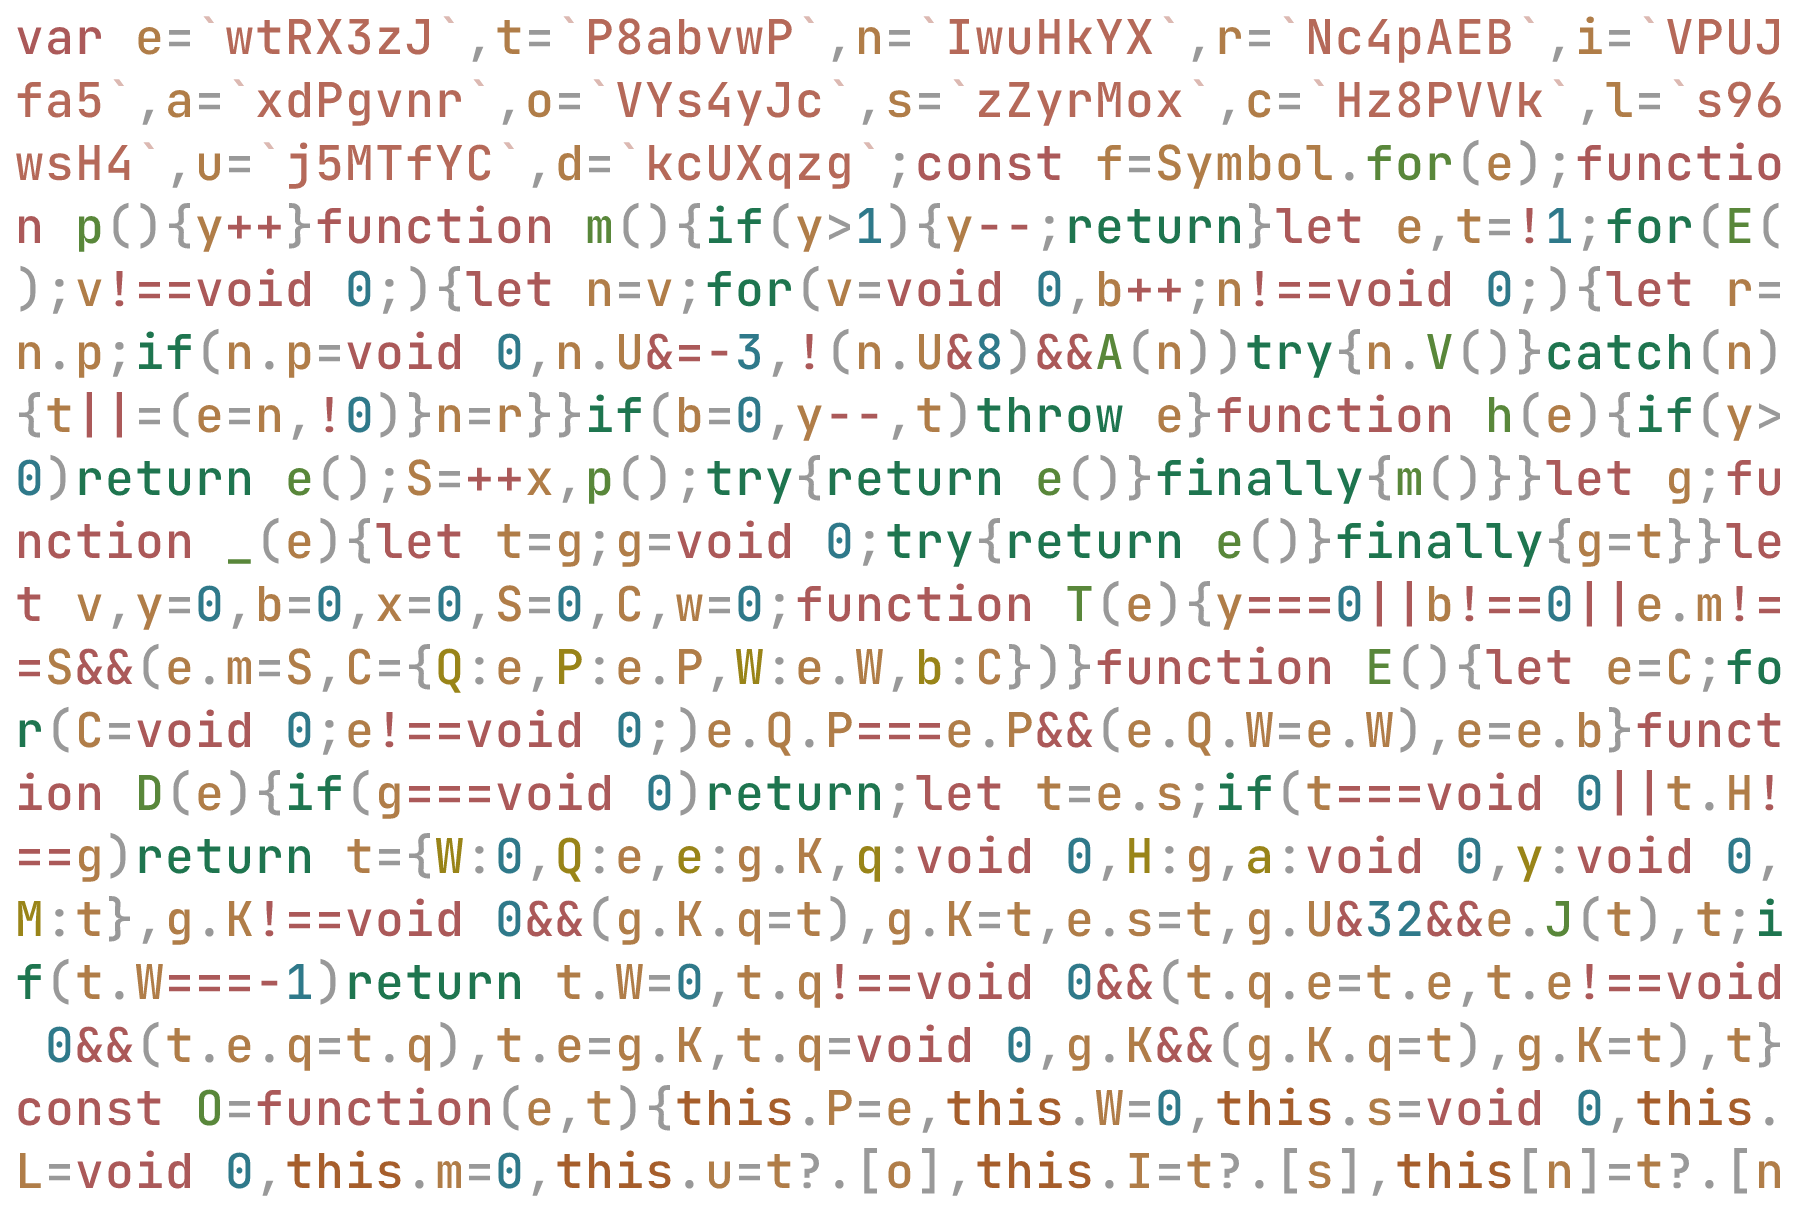
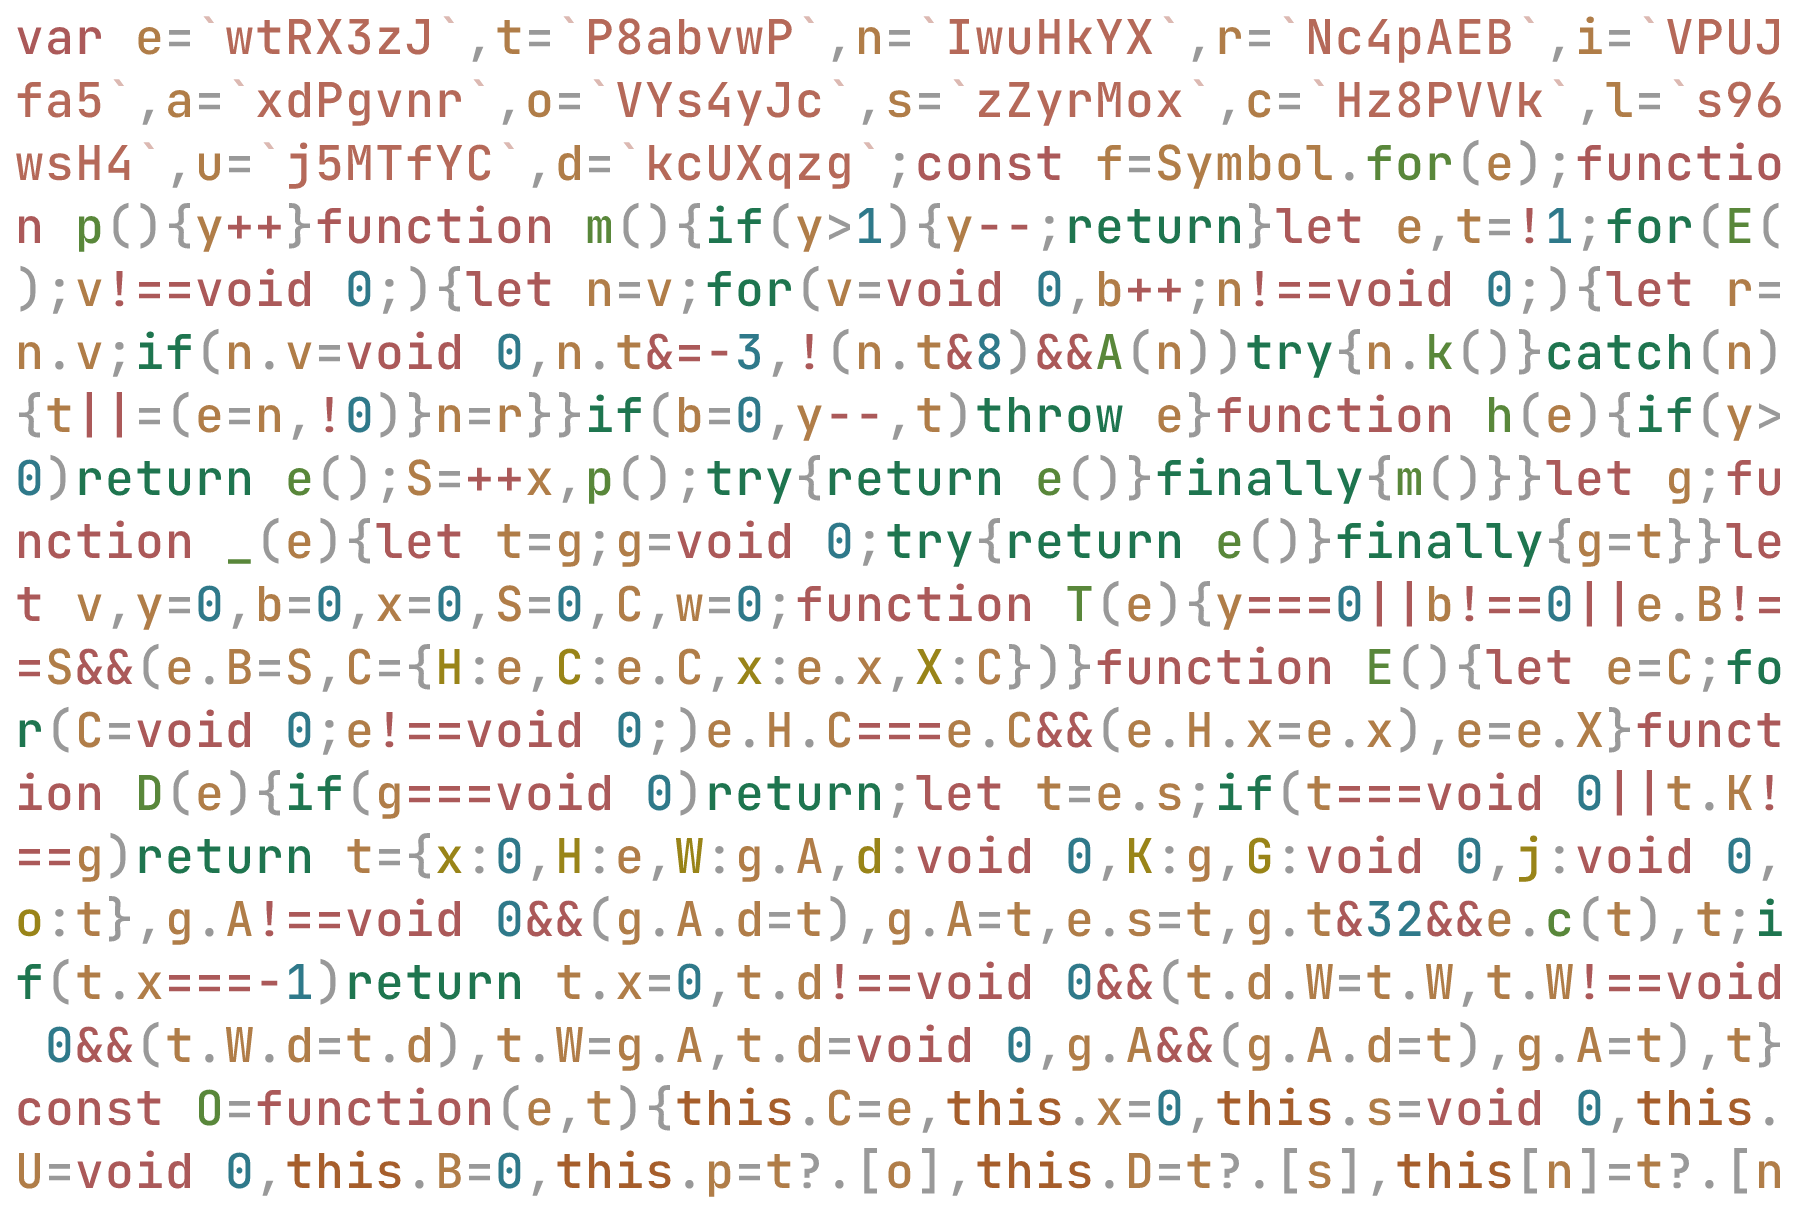
feat: allow non null assertion and shuffle counter by position

diff --git a/demo/signals/dist_sample/keywordified.min.js b/demo/signals/dist_sample/keywordified.min.js
@@ -1,1 +1,1 @@
-var e=`wtRX3zJ`,t=`P8abvwP`,n=`IwuHkYX`,r=`Nc4pAEB`,i=`VPUJfa5`,a=`xdPgvnr`,o=`VYs4yJc`,s=`zZyrMox`,c=`Hz8PVVk`,l=`s96wsH4`,u=`j5MTfYC`,d=`kcUXqzg`;const f=Symbol.for(e);function p(){y++}function m(){if(y>1){y--;return}let e,t=!1;for(E();v!==void 0;){let n=v;for(v=void 0,b++;n!==void 0;){let r=n.p;if(n.p=void 0,n.U&=-3,!(n.U&8)&&A(n))try{n.V()}catch(n){t||=(e=n,!0)}n=r}}if(b=0,y--,t)throw e}function h(e){if(y>0)return e();S=++x,p();try{return e()}finally{m()}}let g;function _(e){let t=g;g=void 0;try{return e()}finally{g=t}}let v,y=0,b=0,x=0,S=0,C,w=0;function T(e){y===0||b!==0||e.m!==S&&(e.m=S,C={Q:e,P:e.P,W:e.W,b:C})}function E(){let e=C;for(C=void 0;e!==void 0;)e.Q.P===e.P&&(e.Q.W=e.W),e=e.b}function D(e){if(g===void 0)return;let t=e.s;if(t===void 0||t.H!==g)return t={W:0,Q:e,e:g.K,q:void 0,H:g,a:void 0,y:void 0,M:t},g.K!==void 0&&(g.K.q=t),g.K=t,e.s=t,g.U&32&&e.J(t),t;if(t.W===-1)return t.W=0,t.q!==void 0&&(t.q.e=t.e,t.e!==void 0&&(t.e.q=t.q),t.e=g.K,t.q=void 0,g.K&&(g.K.q=t),g.K=t),t}const O=function(e,t){this.P=e,this.W=0,this.s=void 0,this.L=void 0,this.m=0,this.u=t?.[o],this.I=t?.[s],this[n]=t?.[n]};O.prototype[i]=f,O.prototype.N=()=>!0,O.prototype.J=function(e){let t=this.L;t!==e&&e.a===void 0&&(e.y=t,this.L=e,t===void 0?_(()=>{this.u?.call(this)}):t.a=e)},O.prototype.R=function(e){if(this.L!==void 0){let t=e.a,n=e.y;t!==void 0&&(t.y=n,e.a=void 0),n!==void 0&&(n.a=t,e.y=void 0),e===this.L&&(this.L=n,n===void 0&&_(()=>{this.I?.call(this)}))}},O.prototype[t]=function(e){return B(()=>{let t=this[a],n=g;g=void 0;try{e(t)}finally{g=n}},{[n]:c})},O.prototype[r]=function(){return _(()=>this[a])},O.prototype.valueOf=function(){return this[a]},O.prototype.toString=function(){return this[a]+``},O.prototype.toJSON=function(){return this[a]},Object.defineProperty(O.prototype,a,{get(){let e=D(this);return e!==void 0&&(e.W=this.W),this.P},set(e){if(e!==this.P){if(b>100)throw Error(l);T(this),this.P=e,this.W++,w++,p();try{for(let e=this.L;e!==void 0;e=e.y)e.H.t()}finally{m()}}}});function k(e,t){return new O(e,t)}function A(e){for(let t=e.K;t!==void 0;t=t.q)if(t.Q.W!==t.W||!t.Q.N()||t.Q.W!==t.W)return!0;return!1}function j(e){for(let t=e.K;t!==void 0;t=t.q){let n=t.Q.s;if(n!==void 0&&(t.M=n),t.Q.s=t,t.W=-1,t.q===void 0){e.K=t;break}}}function M(e){let t=e.K,n;for(;t!==void 0;){let e=t.e;t.W===-1?(t.Q.R(t),e!==void 0&&(e.q=t.q),t.q!==void 0&&(t.q.e=e)):n=t,t.Q.s=t.M,t.M!==void 0&&(t.M=void 0),t=e}e.K=n}const N=function(e,t){O.call(this,void 0),this.B=e,this.K=void 0,this.v=w-1,this.U=4,this.u=t?.[o],this.I=t?.[s],this[n]=t?.[n]};N.prototype=new O,N.prototype.N=function(){if(this.U&=-3,this.U&1)return!1;if((this.U&36)==32||(this.U&=-5,this.v===w))return!0;if(this.v=w,this.U|=1,this.W>0&&!A(this))return this.U&=-2,!0;let e=g;try{j(this),g=this;let e=this.B();(this.U&16||this.P!==e||this.W===0)&&(this.P=e,this.U&=-17,this.W++)}catch(e){this.P=e,this.U|=16,this.W++}return g=e,M(this),this.U&=-2,!0},N.prototype.J=function(e){if(this.L===void 0){this.U|=36;for(let e=this.K;e!==void 0;e=e.q)e.Q.J(e)}O.prototype.J.call(this,e)},N.prototype.R=function(e){if(this.L!==void 0&&(O.prototype.R.call(this,e),this.L===void 0)){this.U&=-33;for(let e=this.K;e!==void 0;e=e.q)e.Q.R(e)}},N.prototype.t=function(){if(!(this.U&2)){this.U|=6;for(let e=this.L;e!==void 0;e=e.y)e.H.t()}},Object.defineProperty(N.prototype,a,{get(){if(this.U&1)throw Error(l);let e=D(this);if(this.N(),e!==void 0&&(e.W=this.W),this.U&16)throw this.P;return this.P}});function P(e,t){return new N(e,t)}function F(e){let t=e.z;if(e.z=void 0,typeof t==`function`){p();let n=g;g=void 0;try{t()}catch(t){throw e.U&=-2,e.U|=8,I(e),t}finally{g=n,m()}}}function I(e){for(let t=e.K;t!==void 0;t=t.q)t.Q.R(t);e.B=void 0,e.K=void 0,F(e)}function L(e){if(g!==this)throw Error(u);M(this),g=e,this.U&=-2,this.U&8&&I(this),m()}let R;const z=function(e,t){this.B=e,this.z=void 0,this.K=void 0,this.p=void 0,this.U=32,this[n]=t?.[n],R&&R.push(this)};z.prototype.V=function(){let e=this.G();try{if(this.U&8||this.B===void 0)return;let e=this.B();typeof e==`function`&&(this.z=e)}finally{e()}},z.prototype.G=function(){if(this.U&1)throw Error(l);this.U|=1,this.U&=-9,F(this),j(this),p();let e=g;return g=this,L.bind(this,e)},z.prototype.t=function(){this.U&2||(this.U|=2,this.p=v,v=this)},z.prototype.T=function(){this.U|=8,this.U&1||I(this)},z.prototype[d]=function(){this.T()};function B(e,t){let n=new z(e,t);try{n.V()}catch(e){throw n.T(),e}let r=n.T.bind(n);return Object.assign(r,{[Symbol.dispose]:r}),r}function V(e){return function(...t){return h(()=>_(()=>e.apply(this,t)))}}function H(){let e=R;return R=[],function(){let t=R;return R&&e&&(e=e.concat(R)),R=e,t}}const U=e=>{let t=Reflect.ownKeys(e);for(let n=0;n<t.length;n++){let r=t[n],i=e[r];typeof i==`function`?e[r]=V(i):typeof i==`object`&&i&&(`VPUJfa5`in i||U(i))}};function W(e){return function(...t){let n,r,i=H();try{r=e(...t)}catch(e){throw R=void 0,e}finally{n=i()}return U(r),r[Symbol.dispose]=V(function(){let e=n;if(e)for(let t=0;t<e.length;t++)e[t]?.[d]();n=void 0}),r}}export{N as Computed,z as Effect,O as Signal,V as action,h as batch,P as computed,W as createModel,B as effect,k as signal,_ as untracked};
+var e=`wtRX3zJ`,t=`P8abvwP`,n=`IwuHkYX`,r=`Nc4pAEB`,i=`VPUJfa5`,a=`xdPgvnr`,o=`VYs4yJc`,s=`zZyrMox`,c=`Hz8PVVk`,l=`s96wsH4`,u=`j5MTfYC`,d=`kcUXqzg`;const f=Symbol.for(e);function p(){y++}function m(){if(y>1){y--;return}let e,t=!1;for(E();v!==void 0;){let n=v;for(v=void 0,b++;n!==void 0;){let r=n.v;if(n.v=void 0,n.t&=-3,!(n.t&8)&&A(n))try{n.k()}catch(n){t||=(e=n,!0)}n=r}}if(b=0,y--,t)throw e}function h(e){if(y>0)return e();S=++x,p();try{return e()}finally{m()}}let g;function _(e){let t=g;g=void 0;try{return e()}finally{g=t}}let v,y=0,b=0,x=0,S=0,C,w=0;function T(e){y===0||b!==0||e.B!==S&&(e.B=S,C={H:e,C:e.C,x:e.x,X:C})}function E(){let e=C;for(C=void 0;e!==void 0;)e.H.C===e.C&&(e.H.x=e.x),e=e.X}function D(e){if(g===void 0)return;let t=e.s;if(t===void 0||t.K!==g)return t={x:0,H:e,W:g.A,d:void 0,K:g,G:void 0,j:void 0,o:t},g.A!==void 0&&(g.A.d=t),g.A=t,e.s=t,g.t&32&&e.c(t),t;if(t.x===-1)return t.x=0,t.d!==void 0&&(t.d.W=t.W,t.W!==void 0&&(t.W.d=t.d),t.W=g.A,t.d=void 0,g.A&&(g.A.d=t),g.A=t),t}const O=function(e,t){this.C=e,this.x=0,this.s=void 0,this.U=void 0,this.B=0,this.p=t?.[o],this.D=t?.[s],this[n]=t?.[n]};O.prototype[i]=f,O.prototype.h=()=>!0,O.prototype.c=function(e){let t=this.U;t!==e&&e.G===void 0&&(e.j=t,this.U=e,t===void 0?_(()=>{this.p?.call(this)}):t.G=e)},O.prototype.J=function(e){if(this.U!==void 0){let t=e.G,n=e.j;t!==void 0&&(t.j=n,e.G=void 0),n!==void 0&&(n.G=t,e.j=void 0),e===this.U&&(this.U=n,n===void 0&&_(()=>{this.D?.call(this)}))}},O.prototype[t]=function(e){return B(()=>{let t=this[a],n=g;g=void 0;try{e(t)}finally{g=n}},{[n]:c})},O.prototype[r]=function(){return _(()=>this[a])},O.prototype.valueOf=function(){return this[a]},O.prototype.toString=function(){return this[a]+``},O.prototype.toJSON=function(){return this[a]},Object.defineProperty(O.prototype,a,{get(){let e=D(this);return e!==void 0&&(e.x=this.x),this.C},set(e){if(e!==this.C){if(b>100)throw Error(l);T(this),this.C=e,this.x++,w++,p();try{for(let e=this.U;e!==void 0;e=e.j)e.K.a()}finally{m()}}}});function k(e,t){return new O(e,t)}function A(e){for(let t=e.A;t!==void 0;t=t.d)if(t.H.x!==t.x||!t.H.h()||t.H.x!==t.x)return!0;return!1}function j(e){for(let t=e.A;t!==void 0;t=t.d){let n=t.H.s;if(n!==void 0&&(t.o=n),t.H.s=t,t.x=-1,t.d===void 0){e.A=t;break}}}function M(e){let t=e.A,n;for(;t!==void 0;){let e=t.W;t.x===-1?(t.H.J(t),e!==void 0&&(e.d=t.d),t.d!==void 0&&(t.d.W=e)):n=t,t.H.s=t.o,t.o!==void 0&&(t.o=void 0),t=e}e.A=n}const N=function(e,t){O.call(this,void 0),this.P=e,this.A=void 0,this.R=w-1,this.t=4,this.p=t?.[o],this.D=t?.[s],this[n]=t?.[n]};N.prototype=new O,N.prototype.h=function(){if(this.t&=-3,this.t&1)return!1;if((this.t&36)==32||(this.t&=-5,this.R===w))return!0;if(this.R=w,this.t|=1,this.x>0&&!A(this))return this.t&=-2,!0;let e=g;try{j(this),g=this;let e=this.P();(this.t&16||this.C!==e||this.x===0)&&(this.C=e,this.t&=-17,this.x++)}catch(e){this.C=e,this.t|=16,this.x++}return g=e,M(this),this.t&=-2,!0},N.prototype.c=function(e){if(this.U===void 0){this.t|=36;for(let e=this.A;e!==void 0;e=e.d)e.H.c(e)}O.prototype.c.call(this,e)},N.prototype.J=function(e){if(this.U!==void 0&&(O.prototype.J.call(this,e),this.U===void 0)){this.t&=-33;for(let e=this.A;e!==void 0;e=e.d)e.H.J(e)}},N.prototype.a=function(){if(!(this.t&2)){this.t|=6;for(let e=this.U;e!==void 0;e=e.j)e.K.a()}},Object.defineProperty(N.prototype,a,{get(){if(this.t&1)throw Error(l);let e=D(this);if(this.h(),e!==void 0&&(e.x=this.x),this.t&16)throw this.C;return this.C}});function P(e,t){return new N(e,t)}function F(e){let t=e.u;if(e.u=void 0,typeof t==`function`){p();let n=g;g=void 0;try{t()}catch(t){throw e.t&=-2,e.t|=8,I(e),t}finally{g=n,m()}}}function I(e){for(let t=e.A;t!==void 0;t=t.d)t.H.J(t);e.P=void 0,e.A=void 0,F(e)}function L(e){if(g!==this)throw Error(u);M(this),g=e,this.t&=-2,this.t&8&&I(this),m()}let R;const z=function(e,t){this.P=e,this.u=void 0,this.A=void 0,this.v=void 0,this.t=32,this[n]=t?.[n],R&&R.push(this)};z.prototype.k=function(){let e=this.i();try{if(this.t&8||this.P===void 0)return;let e=this.P();typeof e==`function`&&(this.u=e)}finally{e()}},z.prototype.i=function(){if(this.t&1)throw Error(l);this.t|=1,this.t&=-9,F(this),j(this),p();let e=g;return g=this,L.bind(this,e)},z.prototype.a=function(){this.t&2||(this.t|=2,this.v=v,v=this)},z.prototype.w=function(){this.t|=8,this.t&1||I(this)},z.prototype[d]=function(){this.w()};function B(e,t){let n=new z(e,t);try{n.k()}catch(e){throw n.w(),e}let r=n.w.bind(n);return Object.assign(r,{[Symbol.dispose]:r}),r}function V(e){return function(...t){return h(()=>_(()=>e.apply(this,t)))}}function H(){let e=R;return R=[],function(){let t=R;return R&&e&&(e=e.concat(R)),R=e,t}}const U=e=>{let t=Reflect.ownKeys(e);for(let n=0;n<t.length;n++){let r=t[n],i=e[r];typeof i==`function`?e[r]=V(i):typeof i==`object`&&i&&(`VPUJfa5`in i||U(i))}};function W(e){return function(...t){let n,r,i=H();try{r=e(...t)}catch(e){throw R=void 0,e}finally{n=i()}return U(r),r[Symbol.dispose]=V(function(){let e=n;if(e)for(let t=0;t<e.length;t++)e[t]?.[d]();n=void 0}),r}}export{N as Computed,z as Effect,O as Signal,V as action,h as batch,P as computed,W as createModel,B as effect,k as signal,_ as untracked};

diff --git a/src/internal/hash.ts b/src/internal/hash.ts
@@ -27,7 +27,7 @@ export const createHasher = (secret: string): Hasher => {
   const cache = new Map<string, string>();
   return (input) => {
     if (cache.has(input)) {
-      return cache.get(input) as string;
+      return cache.get(input)!;
     }
 
     const info = VIRTUAL_PUBLIC_MODULE_ID;
@@ -71,8 +71,8 @@ const shuffle = (str: string, secret: string, salt: string): string => {
     const random32 = prngBuffer.readUInt32BE(byteOffset);
     byteOffset += 4;
     const j = random32 % (i + 1);
-    const temp = arr[i] as string;
-    arr[i] = arr[j] as string;
+    const temp = arr[i]!;
+    arr[i] = arr[j]!;
     arr[j] = temp;
   }
 
@@ -80,14 +80,23 @@ const shuffle = (str: string, secret: string, salt: string): string => {
 };
 
 export const createCounter = (secret: string): Hasher => {
-  const shuffledAlpha = shuffle(ALPHA_CHARS, secret, 'alpha');
-  const shuffledBase62 = shuffle(BASE62_CHARS, secret, 'base62');
+  const shuffledAlpha = shuffle(ALPHA_CHARS, secret, 'pos-0');
+
+  const base62Shuffles: string[] = [];
+  const getBase62Shuffle = (pos: number) => {
+    while (base62Shuffles.length <= pos) {
+      base62Shuffles.push(
+        shuffle(BASE62_CHARS, secret, `pos-${base62Shuffles.length + 1}`),
+      );
+    }
+    return base62Shuffles[pos]!;
+  };
 
   let index = 0;
   const cache = new Map<string, string>();
   return (input) => {
     if (cache.has(input)) {
-      return cache.get(input) as string;
+      return cache.get(input)!;
     }
 
     let result: string;
@@ -98,8 +107,12 @@ export const createCounter = (secret: string): Hasher => {
 
       result += shuffledAlpha[current % shuffledAlpha.length];
       current = Math.floor(current / shuffledAlpha.length);
+
+      let pos = 0;
       while (current > 0) {
         current--;
+        const shuffledBase62 = getBase62Shuffle(pos);
+        pos++;
         result += shuffledBase62[current % shuffledBase62.length];
         current = Math.floor(current / shuffledBase62.length);
       }

diff --git a/src/internal/transform.ts b/src/internal/transform.ts
@@ -197,7 +197,7 @@ const transformPlugin = (mode: 'extract' | 'transform'): PluginItem => {
             return null;
           }
           if (targetMap.has(keyword)) {
-            return targetMap.get(keyword) as t.Identifier;
+            return targetMap.get(keyword)!;
           }
           const encoded = encodeIdentifier(keyword);
           const safeName = toSafeVarName(encoded);
@@ -330,7 +330,7 @@ const transformPlugin = (mode: 'extract' | 'transform'): PluginItem => {
 
               // e.g., type T = ((typeof A))['prop'];
               TSIndexedAccessType(tsPath) {
-                const objPath = tsPath.get('objectType') as NodePath;
+                const objPath = tsPath.get('objectType');
                 if (
                   objPath.isTSTypeQuery() &&
                   t.isIdentifier(objPath.node.exprName) &&

diff --git a/demo/signals/src/keywordified.ts b/demo/signals/src/keywordified.ts
@@ -1076,7 +1076,7 @@ function startCapturingEffects(): () => Effect[] | undefined {
 const wrapInAction = (value: Record<string | symbol, unknown>) => {
   const keys = Reflect.ownKeys(value);
   for (let i = 0; i < keys.length; i++) {
-    const key = keys[i] as string | symbol;
+    const key = keys[i]!;
     const val = value[key];
     if (typeof val === 'function') {
       value[key] = action(val as (...args: unknown[]) => unknown);

diff --git a/demo/signals/src/original.ts b/demo/signals/src/original.ts
@@ -1067,7 +1067,7 @@ function startCapturingEffects(): () => Effect[] | undefined {
 const wrapInAction = (value: Record<string | symbol, unknown>) => {
   const keys = Reflect.ownKeys(value);
   for (let i = 0; i < keys.length; i++) {
-    const key = keys[i] as string | symbol;
+    const key = keys[i]!;
     const val = value[key];
     if (typeof val === 'function') {
       value[key] = action(val as (...args: unknown[]) => unknown);

diff --git a/src/internal/encode.ts b/src/internal/encode.ts
@@ -10,7 +10,7 @@ type Encoded = string & { [__encoded__]: never };
 export const encodeIdentifier = (identifier: string): Encoded => {
   let encoded = '';
   for (let i = 0; i < identifier.length; i++) {
-    const c = identifier[i] as string;
+    const c = identifier[i]!;
     if (/[a-zA-Z0-9_]/.test(c)) {
       encoded += c;
     } else if (c === '$') {

diff --git a/demo/signals/tsdown.config.ts b/demo/signals/tsdown.config.ts
@@ -107,7 +107,7 @@ function image() {
             fonts: [
               {
                 name: 'JetBrains Mono',
-                data: fontBuffers.get(mode) as Buffer,
+                data: fontBuffers.get(mode)!,
               },
             ],
           });
